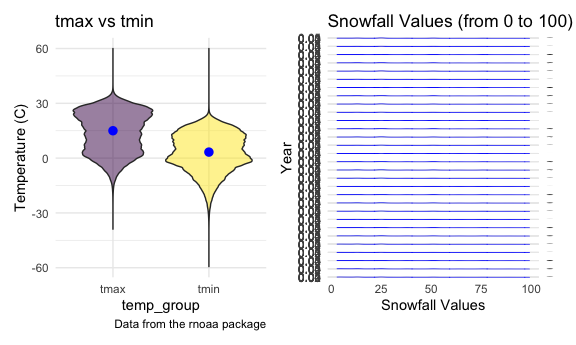
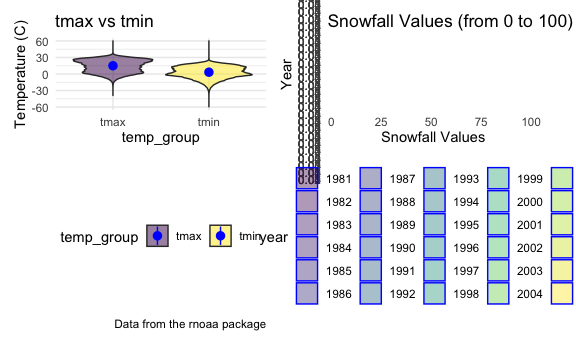
correction for the two plots and add comments for the second one

diff --git a/p8105_hw3_yf2563.md b/p8105_hw3_yf2563.md
@@ -582,15 +582,8 @@ max_min_plot =
     y = "Temperature (C)",
     caption = "Data from the rnoaa package"
   ) + 
-  stat_summary(fun = "median", color = "blue") +
-  theme(legend.position = "none")
+  stat_summary(fun = "median", color = "blue")
 ```
-
-Comments: In this violin plot, the median for the maximum daily
-temperature is around 10 C, and for Minimum daily temperature is around
-2 C. The distribution of the maximum daily temperature tend to be left
-skewed and distribution of the minimum daily temperate is right skewed.
-There is no obvious many outliers for both data.
 
 ##### 3.4.2
 
@@ -615,8 +608,7 @@ filter_snow_plot =
     title = 'Snowfall Values (from 0 to 100) Separately by Year',
     y = "Year",
     x = 'Snowfall Values'
-  ) +
-  theme(legend.position = "none")
+  )
 ```
 
 two\_panel plot:
@@ -632,3 +624,13 @@ max_min_plot + filter_snow_plot
     ## Warning: Removed 2 rows containing missing values (geom_segment).
 
 <img src="p8105_hw3_yf2563_files/figure-gfm/unnamed-chunk-16-1.png" width="90%" />
+
+Comments: In the first violin plot, the median for the maximum daily
+temperature is around 10 C, and for Minimum daily temperature is around
+2 C. The distribution of the maximum daily temperature tend to be left
+skewed and distribution of the minimum daily temperate is right skewed.
+There is no obvious many outliers for both data.
+
+In the second density plot, the snowfall values have relatively
+identical distribution among those years. There are four relatively
+centered level at around 0-14mm, 25mm, 50mm and 75mm.
